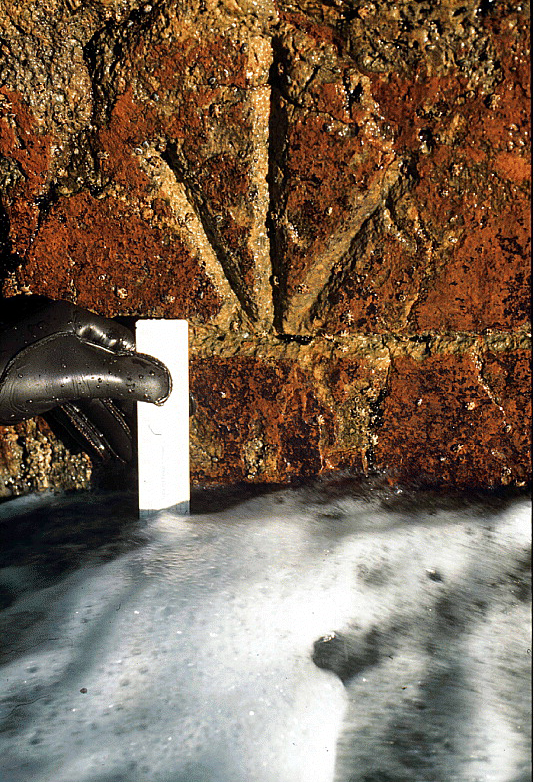
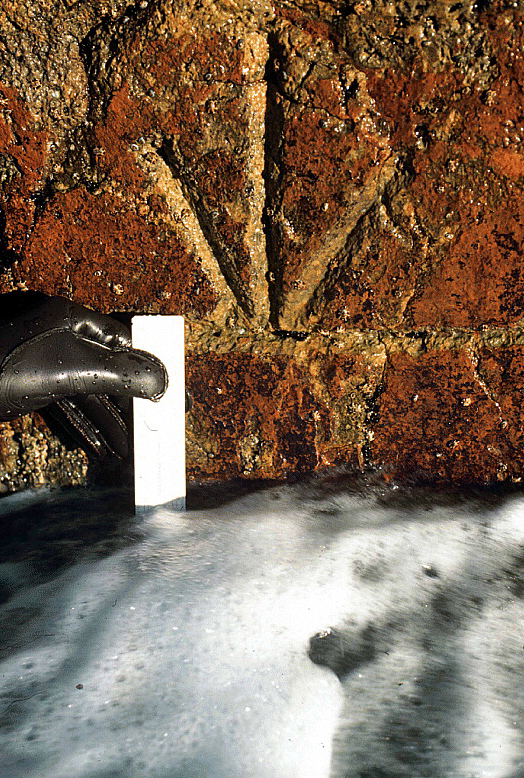
.

diff --git a/content/studentproject/2025/GMSL_recon_tidegauge.md b/content/studentproject/2025/GMSL_recon_tidegauge.md
@@ -1,43 +1,44 @@
 ---
-title: Reconstructing global sea level
+title: "Reconstructing global sea level"
 date: 2025-04-28 04:28:00+00:00
 author: aslak
 banner: /studentproject/2025/Isle of the Dead, Port Arthur - hunter et al 2003.webp
 tags:
 - GMSL
-- Recontruction
+- Reconstruction
 - Statistics
 - Spherical Harmonics
 - Machine Learning
 ---
 
-Better estimates of historical Global Mean Sea Level (GMSL) can help us understand many components of climate system. It is a key climate record.
+Better estimates of historical Global Mean Sea Level (GMSL) can help us understand many components of the climate system. It is a key climate record.
 
 <!--more-->
 
-The GMSL record over the 20th century is based on sparse tide gauge records, and rely on various statistical techniques to extrapolate to the global ocean. There will be some uncertainty associated with the extrapolation. Can you do it better than existing techniques?
+The GMSL record over the 20th century is based on sparse tide gauge records, and relies on various statistical techniques to extrapolate to the global ocean. This extrapolation introduces uncertainty. Can you do it better than existing techniques?
 
-In this study you will design a new GMSL reconstruction method, and put it to the test. Can you improve our estimates of historical sea level with your new statistical method? 
+In this project you will design a new GMSL reconstruction method and put it to the test. Can your statistical method improve our estimates of historical sea level?
 
-Can your method injest discontinous data such as [the 1841-42 record at Port Arthur](https://agupubs.onlinelibrary.wiley.com/doi/full/10.1029/2002GL016813) or the measurements during [the James Cook voyage of Endeavour in 1769-70](https://hgss.copernicus.org/articles/9/85/2018/)?
+Can your method ingest discontinuous data such as [the 1841–42 record at Port Arthur](https://agupubs.onlinelibrary.wiley.com/doi/full/10.1029/2002GL016813) or the measurements made during [James Cook's voyage of the Endeavour in 1769–70](https://hgss.copernicus.org/articles/9/85/2018/)?
 
-
-Outcomes: 
+**Outcomes:**
 * A new reconstruction method
 * A new GMSL record
-* Improved uncertainties 
+* Improved uncertainties
 
-Brainstorm:
+**Brainstorm:**
 * Spherical harmonics
-* [GPs](https://www.youtube.com/watch?v=5ZOPtHKzHrM)
+* [Gaussian processes](https://www.youtube.com/watch?v=5ZOPtHKzHrM)
 
-builds on
-* [Mengel and Perette](todo)
-* [Dangendorf](https://essd.copernicus.org/articles/16/3471/2024/essd-16-3471-2024.pdf)
-* [Church et al.](https://agupubs.onlinelibrary.wiley.com/doi/full/10.1029/2005GL024826)
-* [PSMSL](https://psmsl.org)
-* [Altimetry link](https://www.aviso.altimetry.fr/en/data/products/ocean-indicators-products/mean-sea-level.html)
-* [Common era reconstructions](todo)
-* [GIA/VLM models / Data](todo)
+**Builds on:**
+* [Hay et al. (2015)](https://www.nature.com/articles/nature14093): probabilistic reanalysis using a Kalman smoother (see also the [2017 erratum](https://doi.org/10.1038/nature24466))
+* [Dangendorf et al. (2024)](https://essd.copernicus.org/articles/16/3471/2024/essd-16-3471-2024.pdf)
+* [Church and White (2006)](https://agupubs.onlinelibrary.wiley.com/doi/full/10.1029/2005GL024826)
+* [Kopp et al. (2016)](https://doi.org/10.1073/pnas.1517056113): Common Era sea-level reconstruction
+* [Caron et al. (2018)](https://doi.org/10.1002/2017GL076644): probabilistic GIA model
 
-Student: Benjamin 
+**Data:**
+* [PSMSL tide gauges](https://psmsl.org)
+* [Satellite altimetry](https://www.aviso.altimetry.fr/en/data/products/ocean-indicators-products/mean-sea-level.html)
+
+**Status:** Benjamin is currently working on this project. He is currently re-implementing the Hay et al. method as a baseline and building his improvements on top of it. If you're interested in a related topic, come and talk to me.
